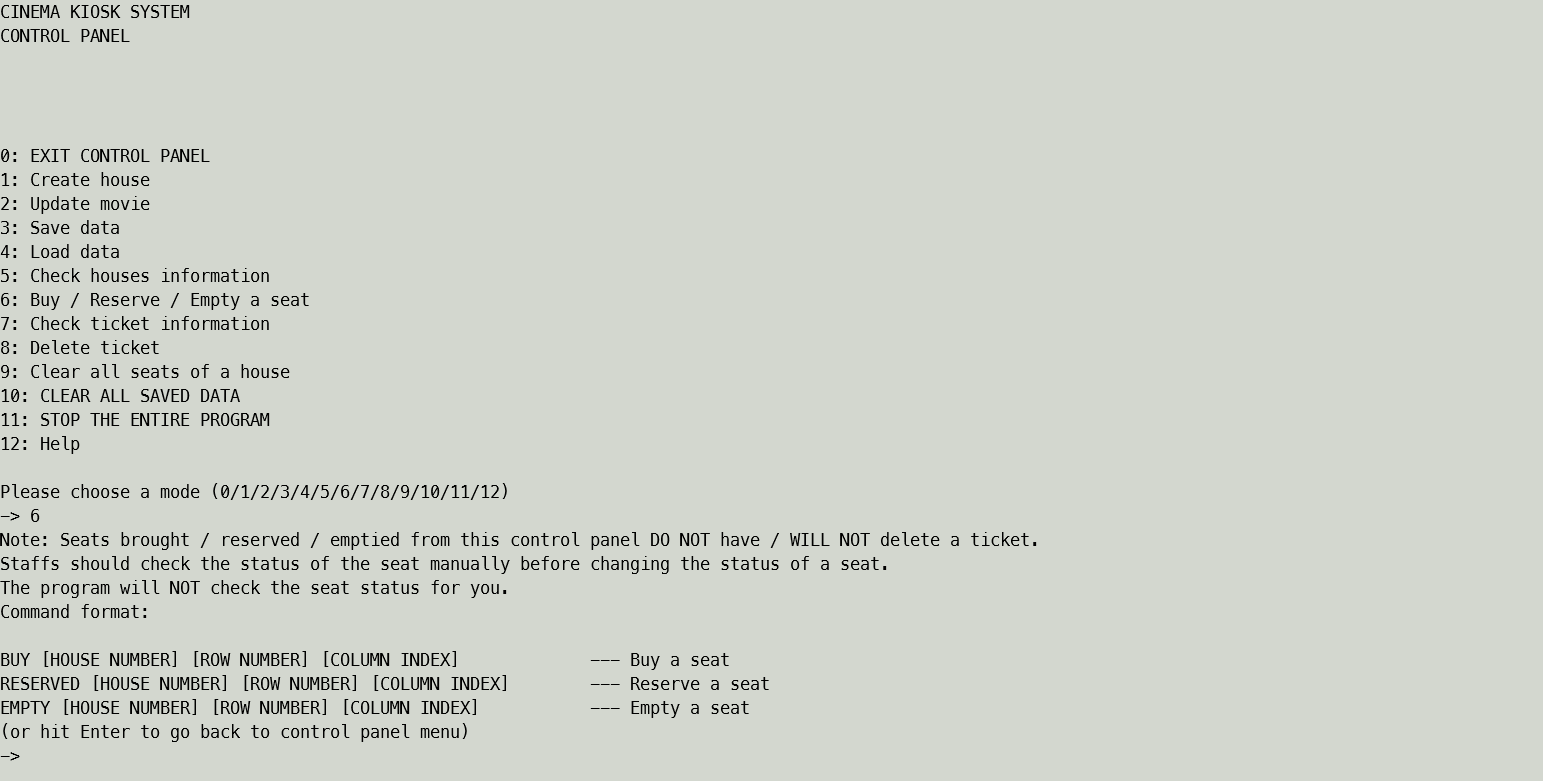
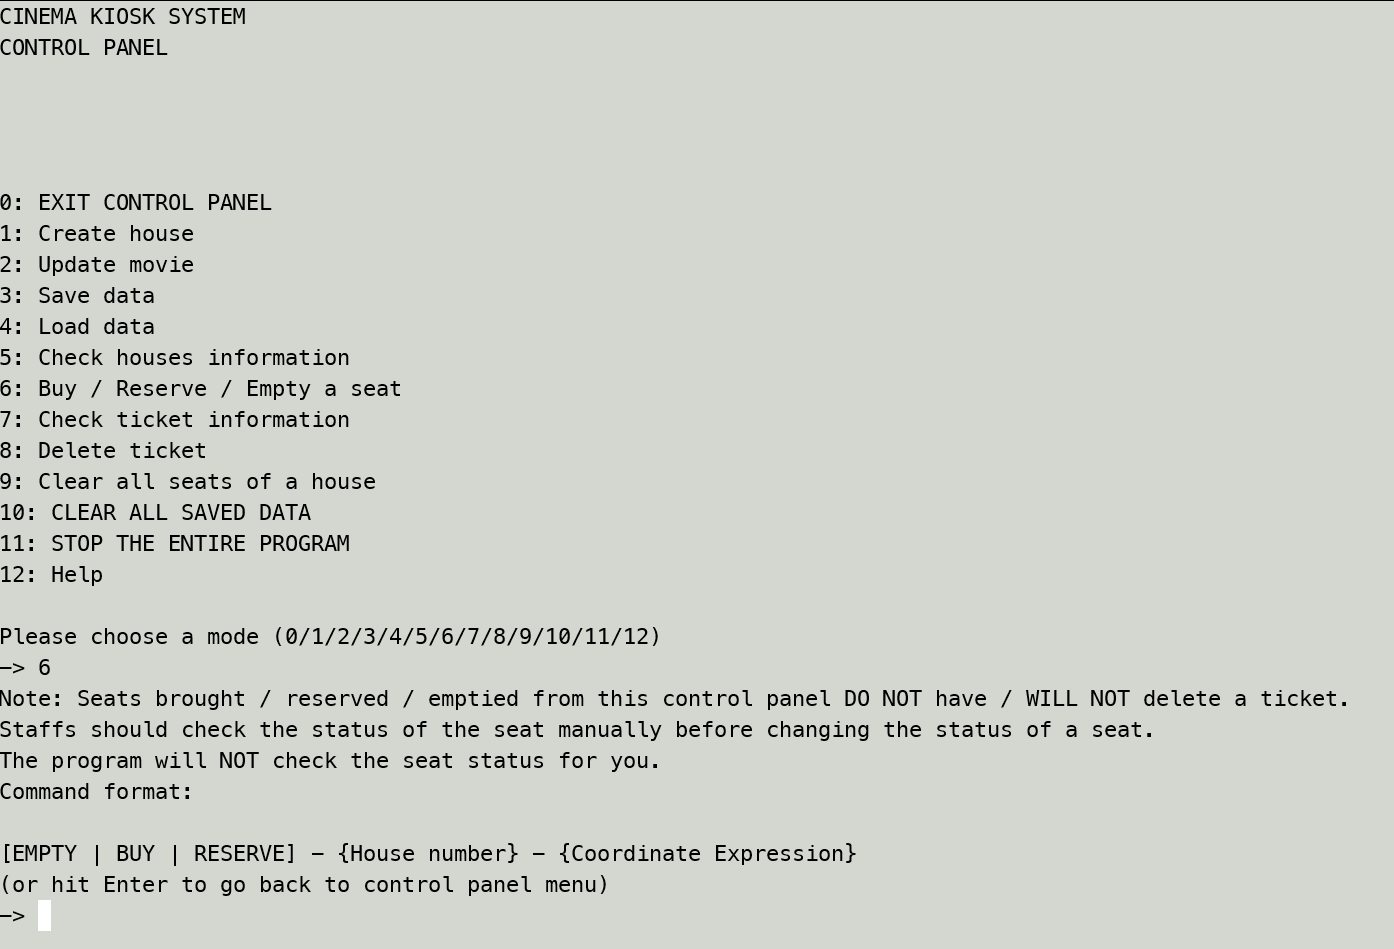
Documentation

diff --git a/src/admin.py b/src/admin.py
@@ -229,13 +229,20 @@ def adminMode() -> None:
 			print("Staffs should check the status of the seat manually before changing the status of a seat.")
 			print("The program will NOT check the seat status for you.")
 			print("""Command format:\n\n"""
-			      """BUY [HOUSE NUMBER] [ROW NUMBER] [COLUMN INDEX]             --- Buy a seat\n"""
-			      """RESERVED [HOUSE NUMBER] [ROW NUMBER] [COLUMN INDEX]        --- Reserve a seat\n"""
-			      """EMPTY [HOUSE NUMBER] [ROW NUMBER] [COLUMN INDEX]           --- Empty a seat\n"""
+			      """[EMPTY | BUY | RESERVE] - {House number} - {Coordinate Expression} \n"""
 			      """(or hit Enter to go back to control panel menu)"""
 			      )
 			logger.info("Waiting command input")
-			command: str = input("-> ").strip().upper().replace(' ', '')
+			command: str = (input("-> ")
+			                .strip()
+			                .upper()
+			                .replace(' ', '')
+			                .replace('{', '')  # Prevent confusion due to the command format
+			                .replace('}', '')
+			                .replace('[', '')
+			                .replace(']', '')
+			                .replace('|', '')  # <-- This too? Really?
+			                )
 			if command == '':
 				logger.info("Empty command, going back to the control panel menu")
 				continue

diff --git a/docs/adminSeatOperation.md b/docs/adminSeatOperation.md
@@ -23,30 +23,44 @@ You should see something like this:
 
 ![Screenshot of mode 6](../images/docs/control_panel_mode_6.png)
 
-If you want to change the seat to Sold, enter the following:
-```
-BUY [HOUSE NUMBER] [ROW NUMBER] [COLUMN INDEX]
-```
 
-If you want to change the seat to Reserved, enter the following:
-```
-RESERVE [HOUSE NUMBER] [ROW NUMBER] [COLUMN INDEX]
-```
+The format of doing seat(s) operation is:
 
-If you want to change the seat to Empty, enter the following:
-```
-Empty [HOUSE NUMBER] [ROW NUMBER] [COLUMN INDEX]
-```
+`[EMPTY | BUY | RESERVE] - {House number} - {Coordinate Expression}`
 
-Replace `[HOUSE NUMBER]` to the house number of the seat;
+Replace `[EMPTY | BUY | RESERVE]` to the action you want to perform 
+(`Empty`, `BUY`, `RESERVE`?);
 
-replace `[ROW NUMBER]` to the row number of the seat; 
+replace `{House number}` to the house number of the seat(s);
 
-replace `[COLUMN INDEX]` to the column number of the seat. 
+replace `{Coordinate Expression}` to the coordinate expression
+representing the range of the seat(s) selected.
 
-The command above is case-insensitive. Leading and trailing spaces are ignored.
+---
 
-You MUST NOT include the brackets (`[]`).
+The command is case-insensitive. All spaces are ignored.
+
+You MUST separate the three argument using hyphens (`-`),
+as shown above.
+
+You SHOULD NOT include brackets (`[]`, `{}`) and vertical bar (`|`).
+They are for demonstration purpose only, though they will be ignored.
+
+### Coordinate Expression
+In control panel mode `6`(Buy / Reserve / Empty a seat),
+you may use a coordinate expression to express one or more seats.
+
+A coordinate expression can be:
+1. A single seat coordinate (E.g. `1A`, `2B`, `P35`, `35P`,`99Z`), or
+2. Two seat coordinates separated by a comma (`:`),
+   representing the start and end of an area of seats (area may not be a rectangle).
+   - These two coordinates MUST NOT be the same seat.
+   - The two coordinates must be two COMPLETE coordinates 
+   (i.e. no missing row / column number in the two coordinates)
+   - The last selected seat (the second coordinate) MUST NOT be in front of the 
+   'first' selected seat (the first coordinate).
+   - E.g. `1A:99Z`, `P35:P45`, `35P:45P`
+
 
 <br/><br/><br/>
 
